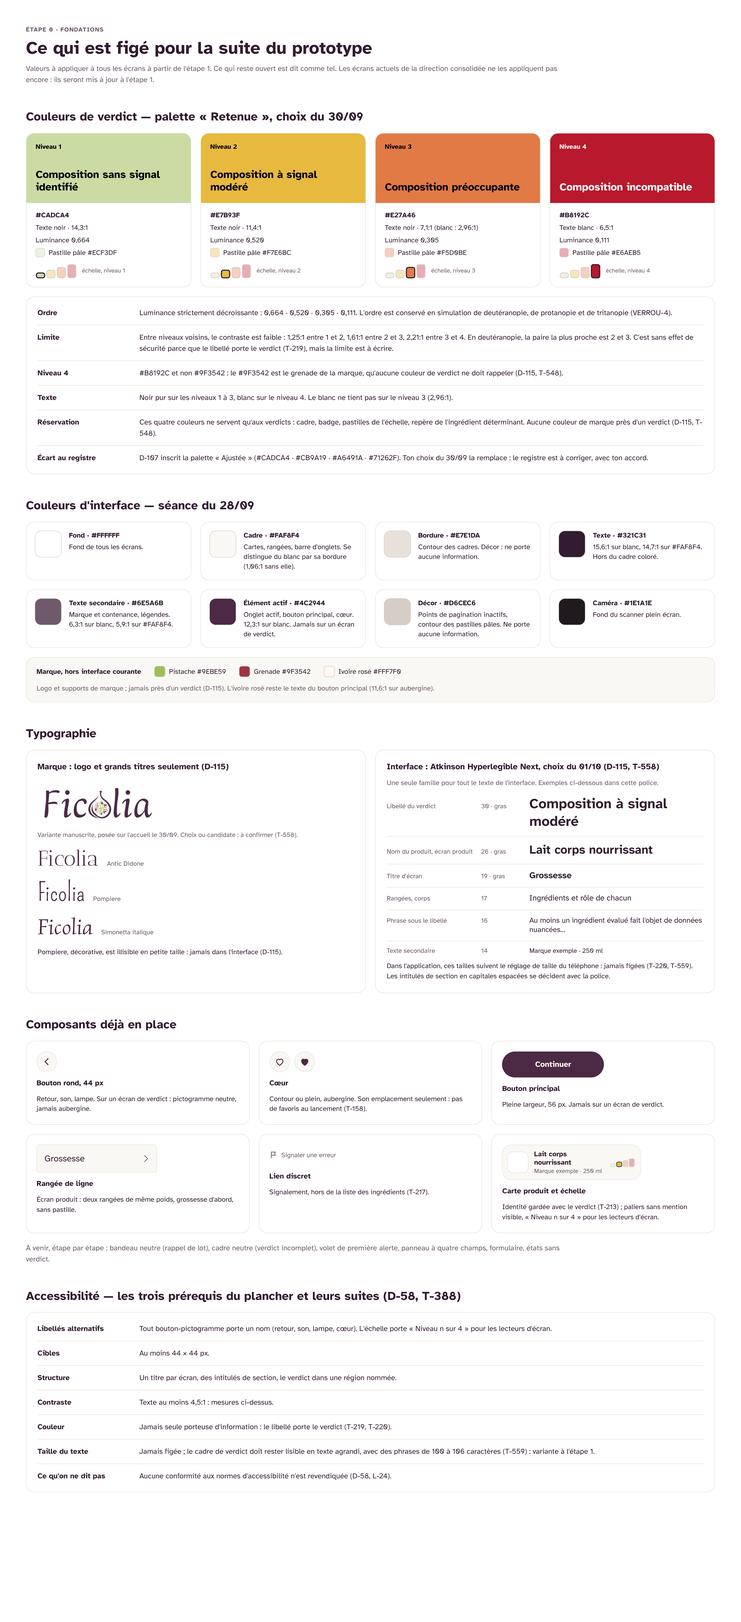
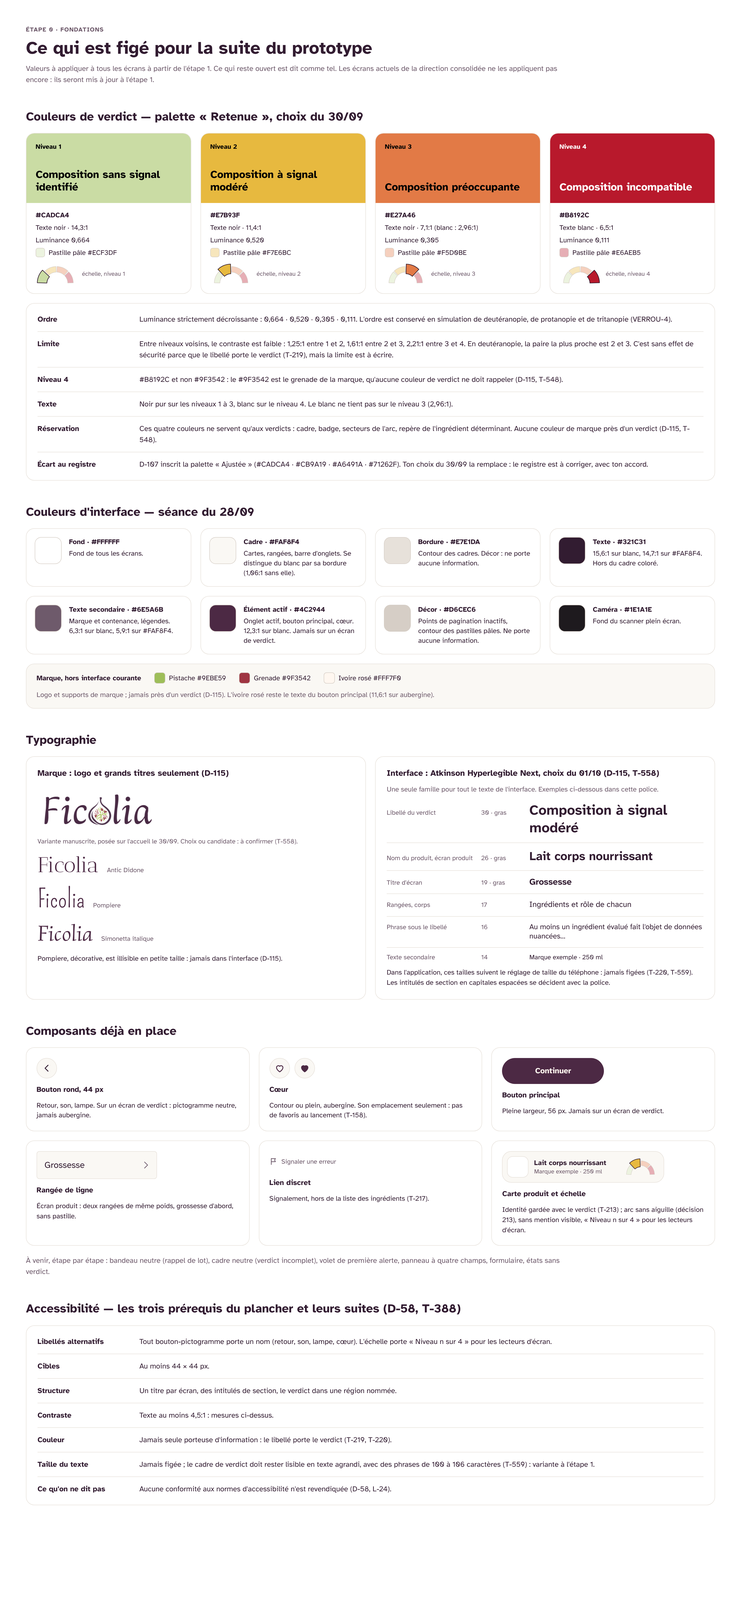
Fondations et Polices : l'arc sans aiguille à la place des paliers (décision 213)
8 dessins remplacés par l'arc du même niveau, calculé comme dans les écrans vivants (4 cartes de
couleur, la carte produit de Fondations, les 3 écrans de Polices). Trois phrases mises à jour
(« secteurs de l'arc », « arc sans aiguille »). La carte produit d'exemple passe à 350 px, sa largeur
sur les écrans, pour que le nom et « 250 ml » tiennent sur une ligne.

Claude-Session: https://claude.ai/code/session_01XpJQNRJMYuEgguGKdobeVx

diff --git a/prototype/sources/project/E0-Fondations.dc.html b/prototype/sources/project/E0-Fondations.dc.html
@@ -26,19 +26,19 @@ a{color:#4C2944}a:hover{color:#321C31}
 <div style="display: grid; grid-template-columns: repeat(4, minmax(0, 1fr)); gap: 20px">
 <div style="border: 1px solid #E7E1DA; border-radius: 18px; background: #FFFFFF; overflow: hidden; display: flex; flex-direction: column">
 <div style="min-height: 150px; box-sizing: border-box; padding: 20px; background: #CADCA4; color: #000000; display: flex; flex-direction: column; justify-content: space-between; gap: 12px"><span style="font-size: 14px; font-weight: 700">Niveau 1</span><span style="font-size: 23px; font-weight: 700; line-height: 1.2">Composition sans signal identifié</span></div>
-<div style="padding: 16px 20px 18px 20px; display: flex; flex-direction: column; gap: 6px; font-size: 15px; line-height: 1.4"><span style="font-weight: 700">#CADCA4</span><span>Texte noir · 14,3:1</span><span>Luminance 0,664</span><span style="display: flex; align-items: center; gap: 8px"><span style="width: 18px; height: 18px; border-radius: 5px; background: #ECF3DF; border: 1px solid #D6CEC6"></span>Pastille pâle #ECF3DF</span><span style="display: flex; align-items: center; gap: 10px; margin-top: 6px"><svg width="90" height="33" sc-camel-view-box="0 0 60 22" role="img" aria-label="Niveau 1 sur 4"><rect x="1" y="14" width="12" height="7" rx="3" fill="#CADCA4" stroke="#321C31" stroke-width="1.5"></rect><rect x="16" y="10" width="12" height="11" rx="3" fill="#F7E6BC" stroke="#D6CEC6" stroke-width="1"></rect><rect x="31" y="6" width="12" height="15" rx="3" fill="#F5D0BE" stroke="#D6CEC6" stroke-width="1"></rect><rect x="46" y="2" width="12" height="19" rx="3" fill="#E6AEB5" stroke="#D6CEC6" stroke-width="1"></rect></svg><span style="font-size: 13px; color: #6E5A6B">échelle, niveau 1</span></span></div>
+<div style="padding: 16px 20px 18px 20px; display: flex; flex-direction: column; gap: 6px; font-size: 15px; line-height: 1.4"><span style="font-weight: 700">#CADCA4</span><span>Texte noir · 14,3:1</span><span>Luminance 0,664</span><span style="display: flex; align-items: center; gap: 8px"><span style="width: 18px; height: 18px; border-radius: 5px; background: #ECF3DF; border: 1px solid #D6CEC6"></span>Pastille pâle #ECF3DF</span><span style="display: flex; align-items: center; gap: 10px; margin-top: 6px"><svg width="90" height="47" sc-camel-view-box="0 0 104 54" role="img" aria-label="Niveau 1 sur 4"><path d="M4.02,48.56 A48,48 0 0 1 17.06,17.09 L34.53,33.55 A24,24 0 0 0 28.01,49.28 Z" fill="#CADCA4" stroke="#321C31" stroke-width="1.5" stroke-linejoin="round"></path><path d="M23.21,19.42 A42,42 0 0 1 50.74,8.02 L51.16,22.01 A28,28 0 0 0 32.80,29.62 Z" fill="#F7E6BC" stroke="#D6CEC6" stroke-width="1" stroke-linejoin="round"></path><path d="M53.26,8.02 A42,42 0 0 1 80.79,19.42 L71.20,29.62 A28,28 0 0 0 52.84,22.01 Z" fill="#F5D0BE" stroke="#D6CEC6" stroke-width="1" stroke-linejoin="round"></path><path d="M82.58,21.21 A42,42 0 0 1 93.98,48.74 L79.99,49.16 A28,28 0 0 0 72.38,30.80 Z" fill="#E6AEB5" stroke="#D6CEC6" stroke-width="1" stroke-linejoin="round"></path></svg><span style="font-size: 13px; color: #6E5A6B">échelle, niveau 1</span></span></div>
 </div>
 <div style="border: 1px solid #E7E1DA; border-radius: 18px; background: #FFFFFF; overflow: hidden; display: flex; flex-direction: column">
 <div style="min-height: 150px; box-sizing: border-box; padding: 20px; background: #E7B93F; color: #000000; display: flex; flex-direction: column; justify-content: space-between; gap: 12px"><span style="font-size: 14px; font-weight: 700">Niveau 2</span><span style="font-size: 23px; font-weight: 700; line-height: 1.2">Composition à signal modéré</span></div>
-<div style="padding: 16px 20px 18px 20px; display: flex; flex-direction: column; gap: 6px; font-size: 15px; line-height: 1.4"><span style="font-weight: 700">#E7B93F</span><span>Texte noir · 11,4:1</span><span>Luminance 0,520</span><span style="display: flex; align-items: center; gap: 8px"><span style="width: 18px; height: 18px; border-radius: 5px; background: #F7E6BC; border: 1px solid #D6CEC6"></span>Pastille pâle #F7E6BC</span><span style="display: flex; align-items: center; gap: 10px; margin-top: 6px"><svg width="90" height="33" sc-camel-view-box="0 0 60 22" role="img" aria-label="Niveau 2 sur 4"><rect x="1" y="14" width="12" height="7" rx="3" fill="#ECF3DF" stroke="#D6CEC6" stroke-width="1"></rect><rect x="16" y="10" width="12" height="11" rx="3" fill="#E7B93F" stroke="#321C31" stroke-width="1.5"></rect><rect x="31" y="6" width="12" height="15" rx="3" fill="#F5D0BE" stroke="#D6CEC6" stroke-width="1"></rect><rect x="46" y="2" width="12" height="19" rx="3" fill="#E6AEB5" stroke="#D6CEC6" stroke-width="1"></rect></svg><span style="font-size: 13px; color: #6E5A6B">échelle, niveau 2</span></span></div>
+<div style="padding: 16px 20px 18px 20px; display: flex; flex-direction: column; gap: 6px; font-size: 15px; line-height: 1.4"><span style="font-weight: 700">#E7B93F</span><span>Texte noir · 11,4:1</span><span>Luminance 0,520</span><span style="display: flex; align-items: center; gap: 8px"><span style="width: 18px; height: 18px; border-radius: 5px; background: #F7E6BC; border: 1px solid #D6CEC6"></span>Pastille pâle #F7E6BC</span><span style="display: flex; align-items: center; gap: 10px; margin-top: 6px"><svg width="90" height="47" sc-camel-view-box="0 0 104 54" role="img" aria-label="Niveau 2 sur 4"><path d="M10.02,48.74 A42,42 0 0 1 21.42,21.21 L31.62,30.80 A28,28 0 0 0 24.01,49.16 Z" fill="#ECF3DF" stroke="#D6CEC6" stroke-width="1" stroke-linejoin="round"></path><path d="M19.09,15.06 A48,48 0 0 1 50.56,2.02 L51.28,26.01 A24,24 0 0 0 35.55,32.53 Z" fill="#E7B93F" stroke="#321C31" stroke-width="1.5" stroke-linejoin="round"></path><path d="M53.26,8.02 A42,42 0 0 1 80.79,19.42 L71.20,29.62 A28,28 0 0 0 52.84,22.01 Z" fill="#F5D0BE" stroke="#D6CEC6" stroke-width="1" stroke-linejoin="round"></path><path d="M82.58,21.21 A42,42 0 0 1 93.98,48.74 L79.99,49.16 A28,28 0 0 0 72.38,30.80 Z" fill="#E6AEB5" stroke="#D6CEC6" stroke-width="1" stroke-linejoin="round"></path></svg><span style="font-size: 13px; color: #6E5A6B">échelle, niveau 2</span></span></div>
 </div>
 <div style="border: 1px solid #E7E1DA; border-radius: 18px; background: #FFFFFF; overflow: hidden; display: flex; flex-direction: column">
 <div style="min-height: 150px; box-sizing: border-box; padding: 20px; background: #E27A46; color: #000000; display: flex; flex-direction: column; justify-content: space-between; gap: 12px"><span style="font-size: 14px; font-weight: 700">Niveau 3</span><span style="font-size: 23px; font-weight: 700; line-height: 1.2">Composition préoccupante</span></div>
-<div style="padding: 16px 20px 18px 20px; display: flex; flex-direction: column; gap: 6px; font-size: 15px; line-height: 1.4"><span style="font-weight: 700">#E27A46</span><span>Texte noir · 7,1:1 (blanc : 2,96:1)</span><span>Luminance 0,305</span><span style="display: flex; align-items: center; gap: 8px"><span style="width: 18px; height: 18px; border-radius: 5px; background: #F5D0BE; border: 1px solid #D6CEC6"></span>Pastille pâle #F5D0BE</span><span style="display: flex; align-items: center; gap: 10px; margin-top: 6px"><svg width="90" height="33" sc-camel-view-box="0 0 60 22" role="img" aria-label="Niveau 3 sur 4"><rect x="1" y="14" width="12" height="7" rx="3" fill="#ECF3DF" stroke="#D6CEC6" stroke-width="1"></rect><rect x="16" y="10" width="12" height="11" rx="3" fill="#F7E6BC" stroke="#D6CEC6" stroke-width="1"></rect><rect x="31" y="6" width="12" height="15" rx="3" fill="#E27A46" stroke="#321C31" stroke-width="1.5"></rect><rect x="46" y="2" width="12" height="19" rx="3" fill="#E6AEB5" stroke="#D6CEC6" stroke-width="1"></rect></svg><span style="font-size: 13px; color: #6E5A6B">échelle, niveau 3</span></span></div>
+<div style="padding: 16px 20px 18px 20px; display: flex; flex-direction: column; gap: 6px; font-size: 15px; line-height: 1.4"><span style="font-weight: 700">#E27A46</span><span>Texte noir · 7,1:1 (blanc : 2,96:1)</span><span>Luminance 0,305</span><span style="display: flex; align-items: center; gap: 8px"><span style="width: 18px; height: 18px; border-radius: 5px; background: #F5D0BE; border: 1px solid #D6CEC6"></span>Pastille pâle #F5D0BE</span><span style="display: flex; align-items: center; gap: 10px; margin-top: 6px"><svg width="90" height="47" sc-camel-view-box="0 0 104 54" role="img" aria-label="Niveau 3 sur 4"><path d="M10.02,48.74 A42,42 0 0 1 21.42,21.21 L31.62,30.80 A28,28 0 0 0 24.01,49.16 Z" fill="#ECF3DF" stroke="#D6CEC6" stroke-width="1" stroke-linejoin="round"></path><path d="M23.21,19.42 A42,42 0 0 1 50.74,8.02 L51.16,22.01 A28,28 0 0 0 32.80,29.62 Z" fill="#F7E6BC" stroke="#D6CEC6" stroke-width="1" stroke-linejoin="round"></path><path d="M53.44,2.02 A48,48 0 0 1 84.91,15.06 L68.45,32.53 A24,24 0 0 0 52.72,26.01 Z" fill="#E27A46" stroke="#321C31" stroke-width="1.5" stroke-linejoin="round"></path><path d="M82.58,21.21 A42,42 0 0 1 93.98,48.74 L79.99,49.16 A28,28 0 0 0 72.38,30.80 Z" fill="#E6AEB5" stroke="#D6CEC6" stroke-width="1" stroke-linejoin="round"></path></svg><span style="font-size: 13px; color: #6E5A6B">échelle, niveau 3</span></span></div>
 </div>
 <div style="border: 1px solid #E7E1DA; border-radius: 18px; background: #FFFFFF; overflow: hidden; display: flex; flex-direction: column">
 <div style="min-height: 150px; box-sizing: border-box; padding: 20px; background: #B8192C; color: #FFFFFF; display: flex; flex-direction: column; justify-content: space-between; gap: 12px"><span style="font-size: 14px; font-weight: 700">Niveau 4</span><span style="font-size: 23px; font-weight: 700; line-height: 1.2">Composition incompatible</span></div>
-<div style="padding: 16px 20px 18px 20px; display: flex; flex-direction: column; gap: 6px; font-size: 15px; line-height: 1.4"><span style="font-weight: 700">#B8192C</span><span>Texte blanc · 6,5:1</span><span>Luminance 0,111</span><span style="display: flex; align-items: center; gap: 8px"><span style="width: 18px; height: 18px; border-radius: 5px; background: #E6AEB5; border: 1px solid #D6CEC6"></span>Pastille pâle #E6AEB5</span><span style="display: flex; align-items: center; gap: 10px; margin-top: 6px"><svg width="90" height="33" sc-camel-view-box="0 0 60 22" role="img" aria-label="Niveau 4 sur 4"><rect x="1" y="14" width="12" height="7" rx="3" fill="#ECF3DF" stroke="#D6CEC6" stroke-width="1"></rect><rect x="16" y="10" width="12" height="11" rx="3" fill="#F7E6BC" stroke="#D6CEC6" stroke-width="1"></rect><rect x="31" y="6" width="12" height="15" rx="3" fill="#F5D0BE" stroke="#D6CEC6" stroke-width="1"></rect><rect x="46" y="2" width="12" height="19" rx="3" fill="#B8192C" stroke="#321C31" stroke-width="1.5"></rect></svg><span style="font-size: 13px; color: #6E5A6B">échelle, niveau 4</span></span></div>
+<div style="padding: 16px 20px 18px 20px; display: flex; flex-direction: column; gap: 6px; font-size: 15px; line-height: 1.4"><span style="font-weight: 700">#B8192C</span><span>Texte blanc · 6,5:1</span><span>Luminance 0,111</span><span style="display: flex; align-items: center; gap: 8px"><span style="width: 18px; height: 18px; border-radius: 5px; background: #E6AEB5; border: 1px solid #D6CEC6"></span>Pastille pâle #E6AEB5</span><span style="display: flex; align-items: center; gap: 10px; margin-top: 6px"><svg width="90" height="47" sc-camel-view-box="0 0 104 54" role="img" aria-label="Niveau 4 sur 4"><path d="M10.02,48.74 A42,42 0 0 1 21.42,21.21 L31.62,30.80 A28,28 0 0 0 24.01,49.16 Z" fill="#ECF3DF" stroke="#D6CEC6" stroke-width="1" stroke-linejoin="round"></path><path d="M23.21,19.42 A42,42 0 0 1 50.74,8.02 L51.16,22.01 A28,28 0 0 0 32.80,29.62 Z" fill="#F7E6BC" stroke="#D6CEC6" stroke-width="1" stroke-linejoin="round"></path><path d="M53.26,8.02 A42,42 0 0 1 80.79,19.42 L71.20,29.62 A28,28 0 0 0 52.84,22.01 Z" fill="#F5D0BE" stroke="#D6CEC6" stroke-width="1" stroke-linejoin="round"></path><path d="M86.94,17.09 A48,48 0 0 1 99.98,48.56 L75.99,49.28 A24,24 0 0 0 69.47,33.55 Z" fill="#B8192C" stroke="#321C31" stroke-width="1.5" stroke-linejoin="round"></path></svg><span style="font-size: 13px; color: #6E5A6B">échelle, niveau 4</span></span></div>
 </div>
 </div>
 <div style="border: 1px solid #E7E1DA; border-radius: 18px; background: #FFFFFF; padding: 8px 24px">
@@ -46,7 +46,7 @@ a{color:#4C2944}a:hover{color:#321C31}
 <div style="border-top: 1px solid #E7E1DA; display: grid; grid-template-columns: 200px minmax(0, 1fr); column-gap: 20px; padding: 14px 0; font-size: 16px; line-height: 1.5"><span style="font-weight: 700">Limite</span><span>Entre niveaux voisins, le contraste est faible : 1,25:1 entre 1 et 2, 1,61:1 entre 2 et 3, 2,21:1 entre 3 et 4. En deutéranopie, la paire la plus proche est 2 et 3. C'est sans effet de sécurité parce que le libellé porte le verdict (T-219), mais la limite est à écrire.</span></div>
 <div style="border-top: 1px solid #E7E1DA; display: grid; grid-template-columns: 200px minmax(0, 1fr); column-gap: 20px; padding: 14px 0; font-size: 16px; line-height: 1.5"><span style="font-weight: 700">Niveau 4</span><span>#B8192C et non #9F3542 : le #9F3542 est le grenade de la marque, qu'aucune couleur de verdict ne doit rappeler (D-115, T-548).</span></div>
 <div style="border-top: 1px solid #E7E1DA; display: grid; grid-template-columns: 200px minmax(0, 1fr); column-gap: 20px; padding: 14px 0; font-size: 16px; line-height: 1.5"><span style="font-weight: 700">Texte</span><span>Noir pur sur les niveaux 1 à 3, blanc sur le niveau 4. Le blanc ne tient pas sur le niveau 3 (2,96:1).</span></div>
-<div style="border-top: 1px solid #E7E1DA; display: grid; grid-template-columns: 200px minmax(0, 1fr); column-gap: 20px; padding: 14px 0; font-size: 16px; line-height: 1.5"><span style="font-weight: 700">Réservation</span><span>Ces quatre couleurs ne servent qu'aux verdicts : cadre, badge, pastilles de l'échelle, repère de l'ingrédient déterminant. Aucune couleur de marque près d'un verdict (D-115, T-548).</span></div>
+<div style="border-top: 1px solid #E7E1DA; display: grid; grid-template-columns: 200px minmax(0, 1fr); column-gap: 20px; padding: 14px 0; font-size: 16px; line-height: 1.5"><span style="font-weight: 700">Réservation</span><span>Ces quatre couleurs ne servent qu'aux verdicts : cadre, badge, secteurs de l'arc, repère de l'ingrédient déterminant. Aucune couleur de marque près d'un verdict (D-115, T-548).</span></div>
 <div style="border-top: 1px solid #E7E1DA; display: grid; grid-template-columns: 200px minmax(0, 1fr); column-gap: 20px; padding: 14px 0; font-size: 16px; line-height: 1.5"><span style="font-weight: 700">Écart au registre</span><span>D-107 inscrit la palette « Ajustée » (#CADCA4 · #CB9A19 · #A6491A · #71262F). Ton choix du 30/09 la remplace : le registre est à corriger, avec ton accord.</span></div>
 </div>
 </section>
@@ -96,7 +96,7 @@ a{color:#4C2944}a:hover{color:#321C31}
 <div style="border: 1px solid #E7E1DA; border-radius: 18px; background: #FFFFFF; padding: 22px; display: flex; flex-direction: column; gap: 14px; align-items: flex-start"><a href="#" style="width: 220px; min-height: 56px; border-radius: 999px; background: #4C2944; color: #FFF7F0; display: flex; align-items: center; justify-content: center; font-size: 17px; font-weight: 700; text-decoration: none">Continuer</a><span style="font-size: 16px; font-weight: 700">Bouton principal</span><span style="font-size: 15px; line-height: 1.45; color: #321C31">Pleine largeur, 56 px. Jamais sur un écran de verdict.</span></div>
 <div style="border: 1px solid #E7E1DA; border-radius: 18px; background: #FFFFFF; padding: 22px; display: flex; flex-direction: column; gap: 14px; align-items: flex-start"><a href="#" style="width: 260px; min-height: 60px; box-sizing: border-box; padding: 0 12px 0 16px; border: 1px solid #E7E1DA; border-radius: 6px; background: #FAF8F4; display: flex; align-items: center; justify-content: space-between; color: #321C31; text-decoration: none"><span style="font-size: 19px">Grossesse</span><svg width="22" height="22" sc-camel-view-box="0 0 24 24" fill="none" stroke="#6E5A6B" stroke-width="1.6" stroke-linecap="square" aria-hidden="true"><path d="M9 5l7 7-7 7"></path></svg></a><span style="font-size: 16px; font-weight: 700">Rangée de ligne</span><span style="font-size: 15px; line-height: 1.45; color: #321C31">Écran produit : deux rangées de même poids, grossesse d'abord, sans pastille.</span></div>
 <div style="border: 1px solid #E7E1DA; border-radius: 18px; background: #FFFFFF; padding: 22px; display: flex; flex-direction: column; gap: 14px; align-items: flex-start"><a href="#" style="min-height: 44px; display: flex; align-items: center; gap: 8px; font-size: 14px; color: #6E5A6B; text-decoration: none"><svg width="18" height="18" sc-camel-view-box="0 0 24 24" fill="none" stroke="#6E5A6B" stroke-width="2" stroke-linecap="round" stroke-linejoin="round" aria-hidden="true"><path d="M5 21V4"></path><path d="M5 4h12l-2.5 4.5L17 13H5"></path></svg><span>Signaler une erreur</span></a><span style="font-size: 16px; font-weight: 700">Lien discret</span><span style="font-size: 15px; line-height: 1.45; color: #321C31">Signalement, hors de la liste des ingrédients (T-217).</span></div>
-<div style="border: 1px solid #E7E1DA; border-radius: 18px; background: #FFFFFF; padding: 22px; display: flex; flex-direction: column; gap: 14px; align-items: flex-start"><div style="width: 300px; box-sizing: border-box; padding: 10px 12px 10px 10px; border: 1px solid #E7E1DA; border-radius: 20px; background: #FAF8F4; display: flex; align-items: center; gap: 12px"><span style="width: 44px; height: 44px; flex-shrink: 0; border-radius: 12px; background: #FFFFFF; border: 1px solid #E7E1DA"></span><span style="flex-grow: 1; display: flex; flex-direction: column; gap: 2px"><span style="font-size: 15px; font-weight: 700">Lait corps nourrissant</span><span style="font-size: 13px; color: #6E5A6B">Marque exemple · 250 ml</span></span><svg width="56" height="21" sc-camel-view-box="0 0 60 22" role="img" aria-label="Niveau 2 sur 4"><rect x="1" y="14" width="12" height="7" rx="3" fill="#ECF3DF" stroke="#D6CEC6" stroke-width="1"></rect><rect x="16" y="10" width="12" height="11" rx="3" fill="#E7B93F" stroke="#321C31" stroke-width="1.5"></rect><rect x="31" y="6" width="12" height="15" rx="3" fill="#F5D0BE" stroke="#D6CEC6" stroke-width="1"></rect><rect x="46" y="2" width="12" height="19" rx="3" fill="#E6AEB5" stroke="#D6CEC6" stroke-width="1"></rect></svg></div><span style="font-size: 16px; font-weight: 700">Carte produit et échelle</span><span style="font-size: 15px; line-height: 1.45; color: #321C31">Identité gardée avec le verdict (T-213) ; paliers sans mention visible, « Niveau n sur 4 » pour les lecteurs d'écran.</span></div>
+<div style="border: 1px solid #E7E1DA; border-radius: 18px; background: #FFFFFF; padding: 22px; display: flex; flex-direction: column; gap: 14px; align-items: flex-start"><div style="width: 350px; box-sizing: border-box; padding: 10px 12px 10px 10px; border: 1px solid #E7E1DA; border-radius: 20px; background: #FAF8F4; display: flex; align-items: center; gap: 12px"><span style="width: 44px; height: 44px; flex-shrink: 0; border-radius: 12px; background: #FFFFFF; border: 1px solid #E7E1DA"></span><span style="flex-grow: 1; display: flex; flex-direction: column; gap: 2px"><span style="font-size: 15px; font-weight: 700">Lait corps nourrissant</span><span style="font-size: 13px; color: #6E5A6B">Marque exemple · 250 ml</span></span><svg width="76" height="39" sc-camel-view-box="0 0 104 54" role="img" aria-label="Niveau 2 sur 4"><path d="M10.02,48.74 A42,42 0 0 1 21.42,21.21 L31.62,30.80 A28,28 0 0 0 24.01,49.16 Z" fill="#ECF3DF" stroke="#D6CEC6" stroke-width="1" stroke-linejoin="round"></path><path d="M19.09,15.06 A48,48 0 0 1 50.56,2.02 L51.28,26.01 A24,24 0 0 0 35.55,32.53 Z" fill="#E7B93F" stroke="#321C31" stroke-width="1.5" stroke-linejoin="round"></path><path d="M53.26,8.02 A42,42 0 0 1 80.79,19.42 L71.20,29.62 A28,28 0 0 0 52.84,22.01 Z" fill="#F5D0BE" stroke="#D6CEC6" stroke-width="1" stroke-linejoin="round"></path><path d="M82.58,21.21 A42,42 0 0 1 93.98,48.74 L79.99,49.16 A28,28 0 0 0 72.38,30.80 Z" fill="#E6AEB5" stroke="#D6CEC6" stroke-width="1" stroke-linejoin="round"></path></svg></div><span style="font-size: 16px; font-weight: 700">Carte produit et échelle</span><span style="font-size: 15px; line-height: 1.45; color: #321C31">Identité gardée avec le verdict (T-213) ; arc sans aiguille (décision 213), sans mention visible, « Niveau n sur 4 » pour les lecteurs d'écran.</span></div>
 </div>
 <p style="margin: 0; font-size: 16px; line-height: 1.5; color: #6E5A6B; max-width: 1180px">À venir, étape par étape : bandeau neutre (rappel de lot), cadre neutre (verdict incomplet), volet de première alerte, panneau à quatre champs, formulaire, états sans verdict.</p>
 </section>

diff --git a/prototype/sources/project/E0-Polices.dc.html b/prototype/sources/project/E0-Polices.dc.html
@@ -19,14 +19,14 @@ a{color:#4C2944}a:hover{color:#321C31}
 <div style="display: flex; flex-direction: column; gap: 10px">
 <span style="font-size: 13px; font-weight: 700; letter-spacing: 0.08em; text-transform: uppercase; color: #6E5A6B">Étape 0 · tranché le 01/10 : Atkinson Hyperlegible Next (T-558)</span>
 <h1 style="margin: 0; font-size: 38px; font-weight: 700; line-height: 1.15">Police d'interface — trois candidates</h1>
-<p style="margin: 0; font-size: 16px; line-height: 1.5; color: #6E5A6B; max-width: 1180px">Même écran de verdict dans chaque police : niveau 2, qui sera le plus fréquent (T-259), avec la phrase la plus longue (106 caractères, D-104). Palette Retenue, échelle en paliers sans mention. En dessous, les pièges des noms d'ingrédients, les accents et le texte agrandi.</p>
+<p style="margin: 0; font-size: 16px; line-height: 1.5; color: #6E5A6B; max-width: 1180px">Même écran de verdict dans chaque police : niveau 2, qui sera le plus fréquent (T-259), avec la phrase la plus longue (106 caractères, D-104). Palette Retenue, échelle en arc sans mention (décision 213). En dessous, les pièges des noms d'ingrédients, les accents et le texte agrandi.</p>
 </div>
 <div style="display: flex; flex-wrap: wrap; gap: 44px; align-items: flex-start">
 <div style="width: 460px; display: flex; flex-direction: column; gap: 18px; font-family: 'Atkinson Hyperlegible Next', system-ui, sans-serif">
 <div style="display: flex; flex-direction: column; gap: 6px"><span style="align-self: flex-start; display: inline-flex; align-items: center; min-height: 26px; box-sizing: border-box; padding: 2px 10px; border-radius: 999px; font-size: 13px; font-weight: 700; background: #321C31; color: #FFFFFF">Retenue le 01/10</span><span style="font-size: 28px; font-weight: 700; line-height: 1.15">Atkinson Hyperlegible Next</span><span style="font-size: 15px; line-height: 1.4; color: #6E5A6B">Braille Institute, 2025 · conçue pour la basse vision · libre, sur Google Fonts</span></div>
 <div style="width: 390px; box-sizing: border-box; padding: 0 0 22px 0; border-radius: 28px; border: 1px solid #E7E1DA; background: #FFFFFF; color: #321C31; font-family: 'Atkinson Hyperlegible Next', system-ui, sans-serif; display: flex; flex-direction: column; overflow: hidden">
 <div style="padding: 22px 20px 0 20px; display: grid; grid-template-columns: repeat(3, minmax(0, 1fr)); align-items: center"><span style="justify-self: start; width: 44px; height: 44px; box-sizing: border-box; border-radius: 999px; border: 1px solid #E7E1DA; background: #FAF8F4; display: flex; align-items: center; justify-content: center"><svg width="22" height="22" sc-camel-view-box="0 0 24 24" fill="none" stroke="#321C31" stroke-width="2" stroke-linecap="round" stroke-linejoin="round" aria-hidden="true"><path d="M15 5l-7 7 7 7"></path></svg></span><span style="justify-self: center; font-size: 19px; font-weight: 700">Grossesse</span><span></span></div>
-<div style="margin: 14px 20px 0 20px; padding: 10px 14px 10px 10px; border: 1px solid #E7E1DA; border-radius: 20px; background: #FAF8F4; display: flex; align-items: center; gap: 12px"><span style="width: 52px; height: 52px; flex-shrink: 0; border-radius: 14px; background: #FFFFFF; border: 1px solid #E7E1DA"></span><span style="flex-grow: 1; min-width: 0; display: flex; flex-direction: column; gap: 2px"><span style="font-size: 16px; font-weight: 700">Lait corps nourrissant</span><span style="font-size: 14px; color: #6E5A6B">Marque exemple · 250 ml</span></span><svg width="56" height="21" sc-camel-view-box="0 0 60 22" role="img" aria-label="Niveau 2 sur 4"><rect x="1" y="14" width="12" height="7" rx="3" fill="#ECF3DF" stroke="#D6CEC6" stroke-width="1"></rect><rect x="16" y="10" width="12" height="11" rx="3" fill="#E7B93F" stroke="#321C31" stroke-width="1.5"></rect><rect x="31" y="6" width="12" height="15" rx="3" fill="#F5D0BE" stroke="#D6CEC6" stroke-width="1"></rect><rect x="46" y="2" width="12" height="19" rx="3" fill="#E6AEB5" stroke="#D6CEC6" stroke-width="1"></rect></svg></div>
+<div style="margin: 14px 20px 0 20px; padding: 10px 14px 10px 10px; border: 1px solid #E7E1DA; border-radius: 20px; background: #FAF8F4; display: flex; align-items: center; gap: 12px"><span style="width: 52px; height: 52px; flex-shrink: 0; border-radius: 14px; background: #FFFFFF; border: 1px solid #E7E1DA"></span><span style="flex-grow: 1; min-width: 0; display: flex; flex-direction: column; gap: 2px"><span style="font-size: 16px; font-weight: 700">Lait corps nourrissant</span><span style="font-size: 14px; color: #6E5A6B">Marque exemple · 250 ml</span></span><svg width="76" height="39" sc-camel-view-box="0 0 104 54" role="img" aria-label="Niveau 2 sur 4"><path d="M10.02,48.74 A42,42 0 0 1 21.42,21.21 L31.62,30.80 A28,28 0 0 0 24.01,49.16 Z" fill="#ECF3DF" stroke="#D6CEC6" stroke-width="1" stroke-linejoin="round"></path><path d="M19.09,15.06 A48,48 0 0 1 50.56,2.02 L51.28,26.01 A24,24 0 0 0 35.55,32.53 Z" fill="#E7B93F" stroke="#321C31" stroke-width="1.5" stroke-linejoin="round"></path><path d="M53.26,8.02 A42,42 0 0 1 80.79,19.42 L71.20,29.62 A28,28 0 0 0 52.84,22.01 Z" fill="#F5D0BE" stroke="#D6CEC6" stroke-width="1" stroke-linejoin="round"></path><path d="M82.58,21.21 A42,42 0 0 1 93.98,48.74 L79.99,49.16 A28,28 0 0 0 72.38,30.80 Z" fill="#E6AEB5" stroke="#D6CEC6" stroke-width="1" stroke-linejoin="round"></path></svg></div>
 <section aria-label="Verdict" style="margin: 14px 20px 0 20px; padding: 22px 22px 20px 22px; border-radius: 24px; border: 1px solid rgba(0,0,0,0.16); background: #E7B93F; color: #000000; display: flex; flex-direction: column; gap: 12px"><span style="font-size: 30px; font-weight: 700; line-height: 1.12">Composition à signal modéré</span><span style="font-size: 16px; line-height: 1.45">Au moins un ingrédient évalué fait l'objet de données nuancées, sans position formelle pour la grossesse.</span></section>
 <div style="margin: 22px 20px 0 20px; display: flex; flex-direction: column; gap: 8px"><span style="font-size: 12px; font-weight: 700; letter-spacing: 0.1em; text-transform: uppercase; color: #6E5A6B">Composition</span><span style="min-height: 58px; box-sizing: border-box; padding: 0 12px 0 18px; border: 1px solid #E7E1DA; border-radius: 16px; background: #FAF8F4; display: flex; align-items: center; justify-content: space-between"><span style="font-size: 17px; font-weight: 700">Ingrédients et rôle de chacun</span><svg width="22" height="22" sc-camel-view-box="0 0 24 24" fill="none" stroke="#6E5A6B" stroke-width="2" stroke-linecap="round" stroke-linejoin="round" aria-hidden="true"><path d="M9 5l7 7-7 7"></path></svg></span></div>
 <span style="margin: 12px 20px 0 20px; min-height: 40px; display: flex; align-items: center; gap: 8px; font-size: 14px; color: #6E5A6B"><svg width="18" height="18" sc-camel-view-box="0 0 24 24" fill="none" stroke="#6E5A6B" stroke-width="2" stroke-linecap="round" stroke-linejoin="round" aria-hidden="true"><path d="M5 21V4"></path><path d="M5 4h12l-2.5 4.5L17 13H5"></path></svg>Signaler une erreur</span>
@@ -46,7 +46,7 @@ a{color:#4C2944}a:hover{color:#321C31}
 <div style="display: flex; flex-direction: column; gap: 6px"><span style="font-size: 28px; font-weight: 700; line-height: 1.15">Source Sans 3</span><span style="font-size: 15px; line-height: 1.4; color: #6E5A6B">Adobe (Paul D. Hunt) · humaniste, compacte · libre, sur Google Fonts</span></div>
 <div style="width: 390px; box-sizing: border-box; padding: 0 0 22px 0; border-radius: 28px; border: 1px solid #E7E1DA; background: #FFFFFF; color: #321C31; font-family: 'Source Sans 3', system-ui, sans-serif; display: flex; flex-direction: column; overflow: hidden">
 <div style="padding: 22px 20px 0 20px; display: grid; grid-template-columns: repeat(3, minmax(0, 1fr)); align-items: center"><span style="justify-self: start; width: 44px; height: 44px; box-sizing: border-box; border-radius: 999px; border: 1px solid #E7E1DA; background: #FAF8F4; display: flex; align-items: center; justify-content: center"><svg width="22" height="22" sc-camel-view-box="0 0 24 24" fill="none" stroke="#321C31" stroke-width="2" stroke-linecap="round" stroke-linejoin="round" aria-hidden="true"><path d="M15 5l-7 7 7 7"></path></svg></span><span style="justify-self: center; font-size: 19px; font-weight: 700">Grossesse</span><span></span></div>
-<div style="margin: 14px 20px 0 20px; padding: 10px 14px 10px 10px; border: 1px solid #E7E1DA; border-radius: 20px; background: #FAF8F4; display: flex; align-items: center; gap: 12px"><span style="width: 52px; height: 52px; flex-shrink: 0; border-radius: 14px; background: #FFFFFF; border: 1px solid #E7E1DA"></span><span style="flex-grow: 1; min-width: 0; display: flex; flex-direction: column; gap: 2px"><span style="font-size: 16px; font-weight: 700">Lait corps nourrissant</span><span style="font-size: 14px; color: #6E5A6B">Marque exemple · 250 ml</span></span><svg width="56" height="21" sc-camel-view-box="0 0 60 22" role="img" aria-label="Niveau 2 sur 4"><rect x="1" y="14" width="12" height="7" rx="3" fill="#ECF3DF" stroke="#D6CEC6" stroke-width="1"></rect><rect x="16" y="10" width="12" height="11" rx="3" fill="#E7B93F" stroke="#321C31" stroke-width="1.5"></rect><rect x="31" y="6" width="12" height="15" rx="3" fill="#F5D0BE" stroke="#D6CEC6" stroke-width="1"></rect><rect x="46" y="2" width="12" height="19" rx="3" fill="#E6AEB5" stroke="#D6CEC6" stroke-width="1"></rect></svg></div>
+<div style="margin: 14px 20px 0 20px; padding: 10px 14px 10px 10px; border: 1px solid #E7E1DA; border-radius: 20px; background: #FAF8F4; display: flex; align-items: center; gap: 12px"><span style="width: 52px; height: 52px; flex-shrink: 0; border-radius: 14px; background: #FFFFFF; border: 1px solid #E7E1DA"></span><span style="flex-grow: 1; min-width: 0; display: flex; flex-direction: column; gap: 2px"><span style="font-size: 16px; font-weight: 700">Lait corps nourrissant</span><span style="font-size: 14px; color: #6E5A6B">Marque exemple · 250 ml</span></span><svg width="76" height="39" sc-camel-view-box="0 0 104 54" role="img" aria-label="Niveau 2 sur 4"><path d="M10.02,48.74 A42,42 0 0 1 21.42,21.21 L31.62,30.80 A28,28 0 0 0 24.01,49.16 Z" fill="#ECF3DF" stroke="#D6CEC6" stroke-width="1" stroke-linejoin="round"></path><path d="M19.09,15.06 A48,48 0 0 1 50.56,2.02 L51.28,26.01 A24,24 0 0 0 35.55,32.53 Z" fill="#E7B93F" stroke="#321C31" stroke-width="1.5" stroke-linejoin="round"></path><path d="M53.26,8.02 A42,42 0 0 1 80.79,19.42 L71.20,29.62 A28,28 0 0 0 52.84,22.01 Z" fill="#F5D0BE" stroke="#D6CEC6" stroke-width="1" stroke-linejoin="round"></path><path d="M82.58,21.21 A42,42 0 0 1 93.98,48.74 L79.99,49.16 A28,28 0 0 0 72.38,30.80 Z" fill="#E6AEB5" stroke="#D6CEC6" stroke-width="1" stroke-linejoin="round"></path></svg></div>
 <section aria-label="Verdict" style="margin: 14px 20px 0 20px; padding: 22px 22px 20px 22px; border-radius: 24px; border: 1px solid rgba(0,0,0,0.16); background: #E7B93F; color: #000000; display: flex; flex-direction: column; gap: 12px"><span style="font-size: 30px; font-weight: 700; line-height: 1.12">Composition à signal modéré</span><span style="font-size: 16px; line-height: 1.45">Au moins un ingrédient évalué fait l'objet de données nuancées, sans position formelle pour la grossesse.</span></section>
 <div style="margin: 22px 20px 0 20px; display: flex; flex-direction: column; gap: 8px"><span style="font-size: 12px; font-weight: 700; letter-spacing: 0.1em; text-transform: uppercase; color: #6E5A6B">Composition</span><span style="min-height: 58px; box-sizing: border-box; padding: 0 12px 0 18px; border: 1px solid #E7E1DA; border-radius: 16px; background: #FAF8F4; display: flex; align-items: center; justify-content: space-between"><span style="font-size: 17px; font-weight: 700">Ingrédients et rôle de chacun</span><svg width="22" height="22" sc-camel-view-box="0 0 24 24" fill="none" stroke="#6E5A6B" stroke-width="2" stroke-linecap="round" stroke-linejoin="round" aria-hidden="true"><path d="M9 5l7 7-7 7"></path></svg></span></div>
 <span style="margin: 12px 20px 0 20px; min-height: 40px; display: flex; align-items: center; gap: 8px; font-size: 14px; color: #6E5A6B"><svg width="18" height="18" sc-camel-view-box="0 0 24 24" fill="none" stroke="#6E5A6B" stroke-width="2" stroke-linecap="round" stroke-linejoin="round" aria-hidden="true"><path d="M5 21V4"></path><path d="M5 4h12l-2.5 4.5L17 13H5"></path></svg>Signaler une erreur</span>
@@ -66,7 +66,7 @@ a{color:#4C2944}a:hover{color:#321C31}
 <div style="display: flex; flex-direction: column; gap: 6px"><span style="font-size: 28px; font-weight: 700; line-height: 1.15">IBM Plex Sans</span><span style="font-size: 15px; line-height: 1.4; color: #6E5A6B">IBM · déjà dans le bloc « Voir le verdict » · libre, sur Google Fonts</span></div>
 <div style="width: 390px; box-sizing: border-box; padding: 0 0 22px 0; border-radius: 28px; border: 1px solid #E7E1DA; background: #FFFFFF; color: #321C31; font-family: 'IBM Plex Sans', system-ui, sans-serif; display: flex; flex-direction: column; overflow: hidden">
 <div style="padding: 22px 20px 0 20px; display: grid; grid-template-columns: repeat(3, minmax(0, 1fr)); align-items: center"><span style="justify-self: start; width: 44px; height: 44px; box-sizing: border-box; border-radius: 999px; border: 1px solid #E7E1DA; background: #FAF8F4; display: flex; align-items: center; justify-content: center"><svg width="22" height="22" sc-camel-view-box="0 0 24 24" fill="none" stroke="#321C31" stroke-width="2" stroke-linecap="round" stroke-linejoin="round" aria-hidden="true"><path d="M15 5l-7 7 7 7"></path></svg></span><span style="justify-self: center; font-size: 19px; font-weight: 700">Grossesse</span><span></span></div>
-<div style="margin: 14px 20px 0 20px; padding: 10px 14px 10px 10px; border: 1px solid #E7E1DA; border-radius: 20px; background: #FAF8F4; display: flex; align-items: center; gap: 12px"><span style="width: 52px; height: 52px; flex-shrink: 0; border-radius: 14px; background: #FFFFFF; border: 1px solid #E7E1DA"></span><span style="flex-grow: 1; min-width: 0; display: flex; flex-direction: column; gap: 2px"><span style="font-size: 16px; font-weight: 700">Lait corps nourrissant</span><span style="font-size: 14px; color: #6E5A6B">Marque exemple · 250 ml</span></span><svg width="56" height="21" sc-camel-view-box="0 0 60 22" role="img" aria-label="Niveau 2 sur 4"><rect x="1" y="14" width="12" height="7" rx="3" fill="#ECF3DF" stroke="#D6CEC6" stroke-width="1"></rect><rect x="16" y="10" width="12" height="11" rx="3" fill="#E7B93F" stroke="#321C31" stroke-width="1.5"></rect><rect x="31" y="6" width="12" height="15" rx="3" fill="#F5D0BE" stroke="#D6CEC6" stroke-width="1"></rect><rect x="46" y="2" width="12" height="19" rx="3" fill="#E6AEB5" stroke="#D6CEC6" stroke-width="1"></rect></svg></div>
+<div style="margin: 14px 20px 0 20px; padding: 10px 14px 10px 10px; border: 1px solid #E7E1DA; border-radius: 20px; background: #FAF8F4; display: flex; align-items: center; gap: 12px"><span style="width: 52px; height: 52px; flex-shrink: 0; border-radius: 14px; background: #FFFFFF; border: 1px solid #E7E1DA"></span><span style="flex-grow: 1; min-width: 0; display: flex; flex-direction: column; gap: 2px"><span style="font-size: 16px; font-weight: 700">Lait corps nourrissant</span><span style="font-size: 14px; color: #6E5A6B">Marque exemple · 250 ml</span></span><svg width="76" height="39" sc-camel-view-box="0 0 104 54" role="img" aria-label="Niveau 2 sur 4"><path d="M10.02,48.74 A42,42 0 0 1 21.42,21.21 L31.62,30.80 A28,28 0 0 0 24.01,49.16 Z" fill="#ECF3DF" stroke="#D6CEC6" stroke-width="1" stroke-linejoin="round"></path><path d="M19.09,15.06 A48,48 0 0 1 50.56,2.02 L51.28,26.01 A24,24 0 0 0 35.55,32.53 Z" fill="#E7B93F" stroke="#321C31" stroke-width="1.5" stroke-linejoin="round"></path><path d="M53.26,8.02 A42,42 0 0 1 80.79,19.42 L71.20,29.62 A28,28 0 0 0 52.84,22.01 Z" fill="#F5D0BE" stroke="#D6CEC6" stroke-width="1" stroke-linejoin="round"></path><path d="M82.58,21.21 A42,42 0 0 1 93.98,48.74 L79.99,49.16 A28,28 0 0 0 72.38,30.80 Z" fill="#E6AEB5" stroke="#D6CEC6" stroke-width="1" stroke-linejoin="round"></path></svg></div>
 <section aria-label="Verdict" style="margin: 14px 20px 0 20px; padding: 22px 22px 20px 22px; border-radius: 24px; border: 1px solid rgba(0,0,0,0.16); background: #E7B93F; color: #000000; display: flex; flex-direction: column; gap: 12px"><span style="font-size: 30px; font-weight: 700; line-height: 1.12">Composition à signal modéré</span><span style="font-size: 16px; line-height: 1.45">Au moins un ingrédient évalué fait l'objet de données nuancées, sans position formelle pour la grossesse.</span></section>
 <div style="margin: 22px 20px 0 20px; display: flex; flex-direction: column; gap: 8px"><span style="font-size: 12px; font-weight: 700; letter-spacing: 0.1em; text-transform: uppercase; color: #6E5A6B">Composition</span><span style="min-height: 58px; box-sizing: border-box; padding: 0 12px 0 18px; border: 1px solid #E7E1DA; border-radius: 16px; background: #FAF8F4; display: flex; align-items: center; justify-content: space-between"><span style="font-size: 17px; font-weight: 700">Ingrédients et rôle de chacun</span><svg width="22" height="22" sc-camel-view-box="0 0 24 24" fill="none" stroke="#6E5A6B" stroke-width="2" stroke-linecap="round" stroke-linejoin="round" aria-hidden="true"><path d="M9 5l7 7-7 7"></path></svg></span></div>
 <span style="margin: 12px 20px 0 20px; min-height: 40px; display: flex; align-items: center; gap: 8px; font-size: 14px; color: #6E5A6B"><svg width="18" height="18" sc-camel-view-box="0 0 24 24" fill="none" stroke="#6E5A6B" stroke-width="2" stroke-linecap="round" stroke-linejoin="round" aria-hidden="true"><path d="M5 21V4"></path><path d="M5 4h12l-2.5 4.5L17 13H5"></path></svg>Signaler une erreur</span>
